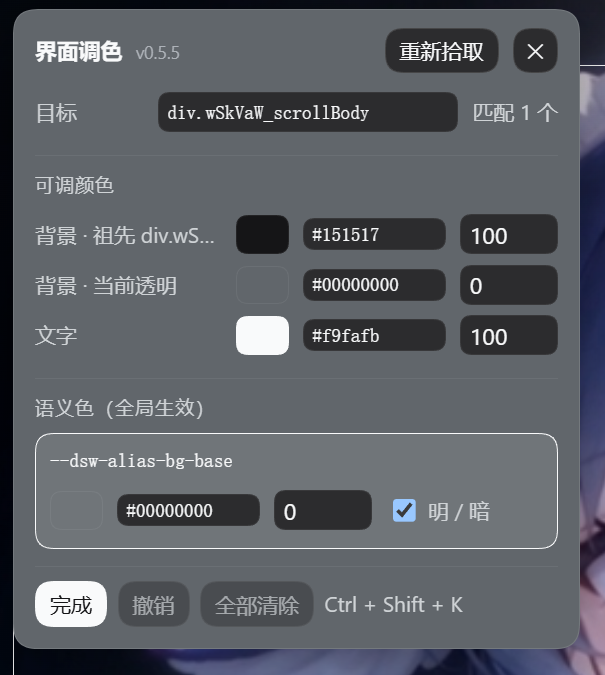
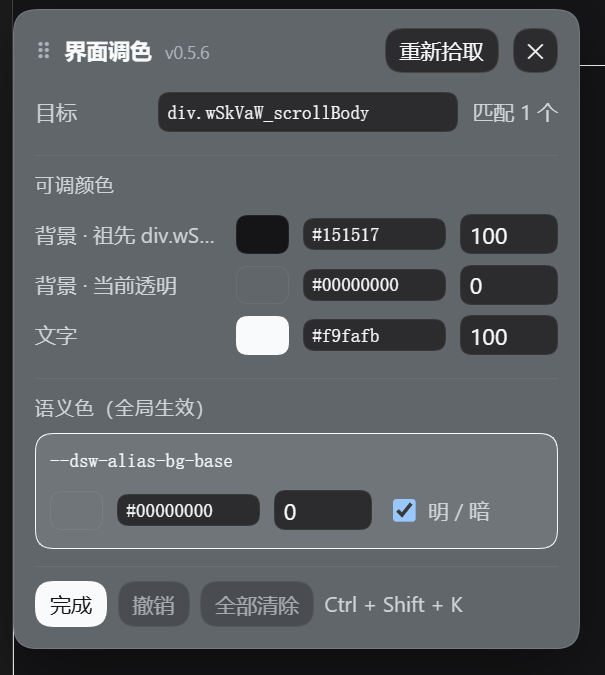
feat(pick): 标题栏可拖动移动面板；放宽目标时保留被选中的元素
用户两条：希望 UI 上有一块区域可以按住拖动面板；另外放宽「目标」选择器时会匹配到第一个元素
而不是被选中的那个。

1) 拖拽
- 标题栏（按钮 / 输入框除外）是拖拽区，左侧加 ⠿ 抓手与 cursor: grab/grabbing 提示。
- pointer 事件 + setPointerCapture：指针移出面板也不中断；pointermove 写 left/top 并夹在视口内。
- manualPos ref 一旦写入，placePanel 只夹边不再按元素位置摆放（内容变高仍会拉回视口内）；
  换目标（selected.selector 变化）时清空 manualPos 恢复自动摆放；拖动时清空 lastPlace 防止被旧键写回。

2) retarget 保留被选中的元素
- retargetSelector 先判断 store.selected.el.matches(text)：仍匹配就继续用它检查颜色/画高亮框，
  只有不再匹配才退到 list[0]。规则仍然写用户输入的选择器（作用于整批）。

实测（自建实例、真实 DOM 事件）：
- 标题栏拖 (+120,-90)：面板 [10,160] → [130,70]；拖完再打开调色盘位置保持、仍在视口内；
  拖到 (5000,5000) 被夹到 [669,430,993,893]（视口 1001x901）；标题栏按钮上按下不触发拖动。
- 选中第 3 个按钮 → 目标改 button（43 匹配）：高亮框仍在第 3 个 [10,114,37,37]（不是第一个 [10,18,36,36]）；
  规则 button { color: #ff0000 !important; }；改 .wSkVaW_root（不匹配）才退回第一个匹配项。
- 控制台仅宿主自身的 [connection] generation 提示，无本插件 error/warn。

Changed region(s): [[0.238, 0.0622, 1.0, 1.0], [0.0595, 0.0622, 0.357, 0.0933], [0.0, 0.9644, 0.0298, 1.0]]

diff --git a/client.js b/client.js
@@ -51,7 +51,7 @@ window.__ModuleLoader__.load({
     const PACKAGE_ID = 'dsh-colorize'
     const NS = 'colorize'
     /** Shown in the panel header so it is obvious which build the page is running. */
-    const VERSION = '0.5.5'
+    const VERSION = '0.5.6'
     const STORAGE_KEY = 'dsh-colorize:v1'
     const MARK = 'data-dsh-colorize'
     const Z_LAYER = 2147483000
@@ -118,6 +118,7 @@ window.__ModuleLoader__.load({
       noColors: '这个元素没有可调的颜色属性',
       noTarget: '没有选中元素',
       targetHint: '可直接编辑选择器；回车或离开输入框后重新匹配',
+      dragHint: '按住标题栏拖动面板',
       targetEmpty: '选择器不能为空',
       targetInvalid: '选择器语法无效',
       targetNoMatch: '没有元素匹配这个选择器',
@@ -193,6 +194,7 @@ window.__ModuleLoader__.load({
       noColors: 'This element has no color property to edit',
       noTarget: 'No element selected',
       targetHint: 'Edit the selector directly; press Enter or leave the field to re-match',
+      dragHint: 'Press and drag the title bar to move the panel',
       targetEmpty: 'The selector cannot be empty',
       targetInvalid: 'Invalid selector syntax',
       targetNoMatch: 'No element matches this selector',
@@ -1195,6 +1197,12 @@ window.__ModuleLoader__.load({
      * re-matches here. The typed selector is used verbatim for every rule, and the panel
      * shows how many elements it matches.
      *
+     * Widening the selector must **not** move the panel: if the element the user picked still
+     * matches the typed selector, that element stays the one being inspected (and outlined).
+     * Only when it no longer matches does the first match take over — otherwise typing
+     * `.sessionRow` to affect every row would silently jump the panel (and every row's colours)
+     * to whichever row happens to be first in the document.
+     *
      * @returns {{ok: true, matches: number} | {ok: false, reason: 'empty'|'invalid'|'nomatch'}}
      */
     function retargetSelector(raw) {
@@ -1207,7 +1215,16 @@ window.__ModuleLoader__.load({
         return { ok: false, reason: 'invalid' }
       }
       if (list.length === 0) return { ok: false, reason: 'nomatch' }
-      const el = list[0]
+      const previous = store.selected === null ? null : store.selected.el
+      let keepPrevious = false
+      if (previous !== null && previous.isConnected === true && typeof previous.matches === 'function') {
+        try {
+          keepPrevious = previous.matches(text)
+        } catch (error) {
+          keepPrevious = false
+        }
+      }
+      const el = keepPrevious ? previous : list[0]
       const info = inspectElement(el, text)
       store.selected = {
         el,
@@ -1345,6 +1362,11 @@ window.__ModuleLoader__.load({
       '  border: 1px solid var(--dsw-alias-border-l2, rgba(255,255,255,.18)); box-shadow: 0 14px 40px rgba(0,0,0,.38); }',
       '.dscz-panel * { box-sizing: border-box; }',
       '.dscz-head { display: flex; align-items: center; gap: 8px; margin-bottom: 8px; }',
+      /* 拖动区域：标题栏（按钮除外），按住可移动面板 */
+      '.dscz-head { cursor: grab; user-select: none; touch-action: none; }',
+      '.dscz-head:active { cursor: grabbing; }',
+      '.dscz-grip { flex: none; font-size: 13px; line-height: 1; letter-spacing: -1px;',
+      '  color: var(--dsw-alias-label-tertiary, #7f8287); }',
       '.dscz-title { font-weight: 600; font-size: 12.5px; flex: 1; }',
       /* 目标：可编辑并重新匹配的选择器 */
       '.dscz-target { flex: 1; min-width: 0; padding: 2px 5px; font: 11px/1.6 ui-monospace, SFMono-Regular, Menlo, monospace;',
@@ -1921,6 +1943,13 @@ window.__ModuleLoader__.load({
       }, [])
 
       const lastPlace = React.useRef('')
+      /**
+       * Set once the user drags the panel by its title bar. From then on the panel keeps that
+       * position (still clamped into the viewport) instead of snapping back next to the
+       * element — the auto placement keeps running, it just stops moving a dragged panel.
+       * Reset when the target changes, so picking a new element auto-places again.
+       */
+      const manualPos = React.useRef(null)
 
       /**
        * Put the panel next to its element **without ever letting it leave the viewport**.
@@ -1941,14 +1970,22 @@ window.__ModuleLoader__.load({
         const maxHeight = Math.max(160, Math.round(window.innerHeight - margin * 2))
         panel.style.maxHeight = Math.min(Math.round(window.innerHeight * 0.74), maxHeight) + 'px'
         panel.style.maxWidth = Math.max(160, Math.round(window.innerWidth - margin * 2)) + 'px'
-        const rect = selected.el.getBoundingClientRect()
         const width = panel.offsetWidth || 324
         const height = panel.offsetHeight || 260
-        let left = Math.min(rect.left, window.innerWidth - width - margin)
-        left = Math.max(margin, left)
-        let top = rect.bottom + 10
-        if (top + height > window.innerHeight - margin) top = rect.top - height - 10
-        top = Math.max(margin, Math.min(top, window.innerHeight - height - margin))
+        let left = 0
+        let top = 0
+        if (manualPos.current !== null) {
+          // 拖拽过就守住用户放的位置，只在越界时拉回视口内。
+          left = Math.max(margin, Math.min(manualPos.current.left, window.innerWidth - width - margin))
+          top = Math.max(margin, Math.min(manualPos.current.top, window.innerHeight - height - margin))
+        } else {
+          const rect = selected.el.getBoundingClientRect()
+          left = Math.min(rect.left, window.innerWidth - width - margin)
+          left = Math.max(margin, left)
+          top = rect.bottom + 10
+          if (top + height > window.innerHeight - margin) top = rect.top - height - 10
+          top = Math.max(margin, Math.min(top, window.innerHeight - height - margin))
+        }
         const key = [left, top, width, height, window.innerWidth, window.innerHeight].join(',')
         if (lastPlace.current !== key) {
           lastPlace.current = key
@@ -1999,6 +2036,70 @@ window.__ModuleLoader__.load({
           /* older engines: the panel scroll is still usable by hand */
         }
       }, [editing])
+
+      /**
+       * Drag the panel by its title bar.
+       *
+       * The panel is deliberately `position: fixed` with everything else moving through
+       * transforms, so a manual drag just writes left/top. Pointer events + capture keep the
+       * drag alive when the pointer leaves the panel; the position is clamped into the viewport
+       * on every move so the panel can never be parked off-screen, and `manualPos` tells the
+       * auto placement to stop snapping it back.
+       *
+       * Buttons inside the bar keep working: a pointerdown that starts on an interactive
+       * control is ignored here.
+       */
+      const dragState = React.useRef(null)
+      const onDragStart = React.useCallback((event) => {
+        if (event.pointerType === 'mouse' && event.button !== 0) return
+        const target = event.target
+        if (target !== null && typeof target.closest === 'function' &&
+          target.closest('button, input, select, textarea, a')) return
+        const panel = panelRef.current
+        if (panel === null) return
+        const rect = panel.getBoundingClientRect()
+        dragState.current = {
+          id: event.pointerId,
+          dx: event.clientX - rect.left,
+          dy: event.clientY - rect.top,
+        }
+        manualPos.current = { left: rect.left, top: rect.top }
+        try {
+          event.currentTarget.setPointerCapture(event.pointerId)
+        } catch (error) {
+          /* synthetic / stale pointer id: the move handler still works */
+        }
+        event.preventDefault()
+      }, [])
+      const onDragMove = React.useCallback((event) => {
+        const drag = dragState.current
+        if (drag === null || drag.id !== event.pointerId) return
+        const panel = panelRef.current
+        if (panel === null) return
+        const margin = 8
+        const width = panel.offsetWidth || 324
+        const height = panel.offsetHeight || 260
+        const left = Math.max(margin, Math.min(event.clientX - drag.dx, window.innerWidth - width - margin))
+        const top = Math.max(margin, Math.min(event.clientY - drag.dy, window.innerHeight - height - margin))
+        manualPos.current = { left, top }
+        lastPlace.current = ''
+        panel.style.left = left + 'px'
+        panel.style.top = top + 'px'
+      }, [])
+      const onDragEnd = React.useCallback((event) => {
+        if (dragState.current === null) return
+        dragState.current = null
+        try {
+          event.currentTarget.releasePointerCapture(event.pointerId)
+        } catch (error) {
+          /* capture already gone */
+        }
+      }, [])
+
+      /** A new target auto-places again (a dragged position is per-element). */
+      React.useEffect(() => {
+        manualPos.current = null
+      }, [state.selected === null ? null : state.selected.selector])
 
       /* --- pick mode: four listeners, added and removed with the mode --- */
 
@@ -2380,7 +2481,15 @@ window.__ModuleLoader__.load({
           { className: 'dscz-panel', ref: panelRef, [MARK]: 'panel', style: PANEL_STYLE },
           h(
             'div',
-            { className: 'dscz-head' },
+            {
+              className: 'dscz-head',
+              title: t('dragHint'),
+              onPointerDown: onDragStart,
+              onPointerMove: onDragMove,
+              onPointerUp: onDragEnd,
+              onPointerCancel: onDragEnd,
+            },
+            h('span', { className: 'dscz-grip', 'aria-hidden': 'true' }, '⠿'),
             h('span', { className: 'dscz-title' }, t('title'),
               h('span', { className: 'dscz-version' }, 'v' + VERSION)),
             h(Button, { small: true, onClick: () => setPicking(true) }, t('repick')),

diff --git a/CHANGELOG.md b/CHANGELOG.md
@@ -1,5 +1,41 @@
 # Changelog
 
+## 0.5.6 — 2026-10-17
+
+两条：**面板可以用标题栏拖动**；**放宽目标选择器时保留你点选的那个元素**（不再跳到第一个匹配项）。
+
+### 1. 拖拽：按住标题栏移动面板
+
+标题栏左边多了一个 `⠿` 抓手，整条标题栏（按钮除外）都是拖动区域：按住拖动即移动面板，
+`cursor: grab / grabbing` 提示可拖。
+
+* 用 pointer 事件 + `setPointerCapture`，指针移出面板也不会中断；移动被夹在视口内，拖不丢。
+* 拖过之后**位置固定**：自动摆放继续跑（内容变高时仍会重新夹边），但不会再把手动位置拉回元素旁边。
+* 换目标（重新拾取 / 改 目标 选择器）时重置为自动摆放。
+* 标题栏上的按钮不受影响：从按钮上按下不会触发拖动。
+
+### 2. 目标：保留「被选中的元素」
+
+以前在 `目标` 里把选择器**放宽**（例如从 `[data-row-key="session:…"]` 改成 `.sessionRow` 以影响全部行）时，
+`retargetSelector` 直接取 `querySelectorAll(…)[0]` —— 面板会跳到**文档里第一个匹配项**重新检查颜色、
+高亮框也跟着跳，看起来就像「匹配了当前[第一个]元素，而不是我选中的那个」。
+
+现在：**只要你点选的那个元素仍然匹配新选择器，就继续用它**（行、高亮框、取色都还是它）；
+只有它不再匹配时才退回第一个匹配项。而**规则仍然写你输入的选择器**，`匹配 N 个` 照旧。
+
+順带：`目标` 输入框里按 `Esc` 只还原这次输入（0.5.5 已修，沿用）。
+
+### 验证（自建实例，真实 DOM 事件，控制台无 error）
+
+| 操作 | 结果 |
+| --- | --- |
+| 标题栏拖 (+120, −90) | 面板 `[10,160] → [130,70]`，位移与手势一致 |
+| 拖完再打开调色盘（面板变高 + 重渲染） | 位置保持 `[130,70]`，高度增加，仍在视口内 |
+| 往视口外拖到 (5000,5000) | 被夹到 `[669,430,993,893]`（视口 1001×901），完全在内 |
+| 在标题栏按钮上按下并移动 | 面板不动（按钮照常工作） |
+| 选中第 3 个按钮 → 目标改 `button`（43 个匹配） | 高亮框仍是第 3 个按钮 `[10,114,37,37]`，不是第一个 `[10,18,36,36]`；规则仍写 `button { color: … }` |
+| 目标改 `.wSkVaW_root`（不再匹配选中元素） | 退回第一个匹配项，高亮框移到 root |
+
 ## 0.5.5 — 2026-10-17
 
 两条需求：**目标可以选择性地手动改并重新匹配**，以及**贴着屏幕边缘取色时浮层面板会卡出屏幕**。

diff --git a/AGENTS.md b/AGENTS.md
@@ -39,11 +39,14 @@
    打开取色器时 `scrollIntoView`。只在「选中元素 + scroll/resize」时算一次的话，贴边取色会顶出屏幕。
 8. **手动改的目标必须被尊重**：`目标` 是输入框，重匹配走 `inspectElement(el, selectorOverride)`，
    行的规则**写用户输入的选择器**，不许回退到 `buildSelector`。非法 / 零匹配只显示行内说明，不动当前选择。
-   窗口捕获的「Esc 关面板」必须跳过 `input / textarea / select`，否则在输入框里取消输入会把面板关掉。
-9. **`client.js` 的 `VERSION` 必须等于 `package.json` 的 version**：面板标题读它，这是「页面里装的哪个构建」
-   的唯一线索。`npm run check:manifest` 会拦。
-10. **两份 locale 的键必须一一对应**，`files` 必须覆盖所有会发布的东西。
-11. **别把 `web:linux` 的默认键位加回来**：DSH 只放行三种组合且都被官方命令占了，
+   **放宽选择器时只要 `store.selected.el` 仍 matches，就继续用它**（不许改成 `list[0]`）——
+   否则用户看到的是「面板跳到了第一个匹配元素」。窗口捕获的「Esc 关面板」必须跳过 `input / textarea / select`。
+9. **手动拖拽优先于自动摆放**：标题栏拖动写 `manualPos`，此后 `placePanel` 只夹边、不再按元素摆放；
+   拖动要 pointer capture + 视口夹边，标题栏上的按钮按下不触发拖动；换目标时清空 `manualPos` 恢复自动摆放。
+10. **`client.js` 的 `VERSION` 必须等于 `package.json` 的 version**：面板标题读它，这是「页面里装的哪个构建」
+    的唯一线索。`npm run check:manifest` 会拦。
+11. **两份 locale 的键必须一一对应**，`files` 必须覆盖所有会发布的东西。
+12. **别把 `web:linux` 的默认键位加回来**：DSH 只放行三种组合且都被官方命令占了，
     `register()` 会原子校验所有平台的默认键位 —— 一个不合法默认值会让整条命令注册失败。
     Windows/中文 IME 下 `Alt+Shift` 是输入法切换，也不要当默认键。
 

diff --git a/README.md b/README.md
@@ -51,8 +51,10 @@ dsh plugin --profile web add \
    每行都可以**直接改**：点色块开取色器，或直接在行内的 `HEX` 框（回车提交、`Esc` 取消、非法输入自动还原）
    和不透明度框（0–100，输入即时生效）里改 —— 不必进编辑器。
    面板里的 **目标** 是**可编辑的选择器**：改完按回车（或离开输入框）就按新选择器重新匹配 ——
-   取第一个匹配元素重新检查属性，规则也写在你输入的选择器上；`匹配 N 个` 会跟着变，语法错误 / 没有匹配
-   会标红说明原因且不动当前选择（`Esc` 只还原这次输入，不关面板）。
+   规则写在你输入的选择器上，`匹配 N 个` 会跟着变；语法错误 / 没有匹配会标红说明原因且不动当前选择
+   （`Esc` 只还原这次输入，不关面板）。
+   把选择器**放宽**（比如改成整类元素）时，只要你点选的那个元素仍在匹配集合里，面板就继续盯着它 ——
+   行、高亮框、取色都还是它，只是规则作用到整批；它不再匹配才退回第一个匹配项。
 3. **取色器有两个可选方式**（默认「混合器」）：
 
    * **调色盘**：系统取色器（色轮 + 屏幕吸管）+ 15 个预设色；
@@ -94,6 +96,7 @@ dsh plugin --profile web add \
 
 | 控件 | 作用 |
 | --- | --- |
+| 标题栏（`⠿`） | **按住拖动面板**（指针移出面板也不断，位置夹在视口内）；拖过之后位置固定，换目标才恢复自动摆放 |
 | 目标 | **可编辑的选择器**：回车 / 失焦后重新匹配（规则写在你输入的选择器上），右侧显示匹配数量；非法或零匹配会标红说明且不改当前选择 |
 | 重新拾取 | 回到拾色模式换一个元素 |
 | 语义色（全局生效） | 当元素颜色正好等于某个主题 token 时出现；改它等于换整个界面的这个语义色，比元素级规则稳得多。这一行同样有行内 `HEX` 与不透明度（含 alpha 也不会有歧义） |

diff --git a/README_EN.md b/README_EN.md
@@ -24,7 +24,8 @@ zero-size React mount.
 | **Recolor** | The panel lists the colours that are actually in effect: background / text / border (merged when all four sides match) / SVG fill & stroke |
 | **Two pickers** | **Palette** (OS picker + eyedropper + 15 presets) and **Mixer** (R/G/B/A sliders + HEX), sharing one 应用 / 取消 footer |
 | **Inline editing** | Every row edits `HEX` and opacity (0–100) in place, no editor needed. Opacity survives a hex edit, and a translucent colour shows as `#rrggbbaa` |
-| **Editable target** | The `目标` field is an editable selector: press Enter (or leave the field) to re-match. Rules are written against the selector you typed, the match count updates, and an invalid / empty / zero-match selector is reported inline without losing the current selection |
+| **Editable target** | The `目标` field is an editable selector: press Enter (or leave the field) to re-match. Rules are written against the selector you typed, the match count updates, and an invalid / empty / zero-match selector is reported inline without losing the current selection. Widening the selector keeps the element you picked as long as it still matches (the panel only jumps to the first match when it does not) |
+| **Draggable panel** | The title bar (`⠿`) is a drag handle: press and drag to move the panel (pointer capture keeps the drag alive outside the panel, the position is clamped into the viewport, and it stays where you put it until the target changes) |
 | **Stays on screen** | The panel re-places itself after every content change, clamps both axes inside the viewport (flipping above the element when needed), caps its own size to the viewport and scrolls internally — picking near an edge no longer leaves the palette buttons off-screen |
 | **Bulk** | Scope: this element / N same-class / element + descendants — existing rules move with the scope |
 | **Semantic colours** | When a colour equals a `--dsw-alias-*` token, editing it goes through `theme.overrideTokens`, so the whole UI follows |

diff --git a/docs/internals.md b/docs/internals.md
@@ -164,3 +164,22 @@ DSH 的设置弹窗是 `body` 下的 `div[role=dialog][aria-modal=true]`，`z-in
 * `Esc` 只还原这次输入（窗口捕获阶段的「关闭面板」监听会跳过 `input / textarea / select`，
   否则在输入框里按 Escape 会把整个面板关掉）；
 * 匹配到多个时规则作用于整批 —— 这是选择器的语义，面板用 `匹配 N 个` 明确显示。
+
+### 十之一、放宽选择器时要守住「你点选的那个元素」
+
+`retargetSelector` 在改动前直接取 `querySelectorAll(text)[0]`。把选择器放宽（例如从
+`[data-row-key="session:…"]` 改成整类行）时，面板会跳到**文档里第一个匹配项**检查颜色、高亮框也跳走，
+用户看到的就是「匹配了当前[第一个]元素，而不是我选中的那个」。
+
+正确行为：**只要 `store.selected.el` 仍然 `matches(text)`，就继续用它**（行、高亮框、取色都是它），
+规则仍写用户输入的选择器（作用于整批）；只有当它不再匹配时才退回第一个匹配项。
+这样「放宽选择器」= 扩大规则的作用范围，而不是换一个检查对象。
+
+## 十一、拖拽：手动位置优先于自动摆放
+
+标题栏是拖拽区（`⠿` 抓手，`cursor: grab`；鼠标按下点落在按钮/输入框上时忽略，按钮照常工作）。
+
+* pointer 事件 + `setPointerCapture`：指针移出面板也不断；`pointermove` 里写 `left/top` 并夹在视口内。
+* `manualPos` ref 一旦被拖动写入，`placePanel` 就**只夹边、不再按元素位置摆放**；内容变高时仍会被拉回视口内。
+* 换目标（`selected.selector` 变化）时清空 `manualPos`，恢复自动摆放 —— 手动位置是「针对当前这个元素」的。
+* `lastPlace` 去重键在拖动时清空，避免自动摆放把刚拖到的位置又按旧键写回去。

diff --git a/docs/releases/v0.5.6.md b/docs/releases/v0.5.6.md
@@ -1,0 +1,25 @@
+# v0.5.6 — 面板可拖动；目标放宽时保留你选中的元素
+
+## 1. 拖拽面板
+
+标题栏左边多了 `⠿` 抓手，整条标题栏（按钮除外）都能按住拖动：
+
+* pointer 事件 + `setPointerCapture`，指针移出面板也不中断；位置被夹在视口内，拖不丢。
+* 拖过之后位置固定 —— 自动摆放仍会在内容变高时夹边，但不会把手动位置拉回元素旁边。
+* 换目标（重新拾取 / 改 `目标`）后恢复自动摆放；标题栏上的按钮不受影响。
+
+实测：拖 (+120, −90) → 面板 `[10,160] → [130,70]`；再打开调色盘，位置保持且面板仍在视口内；
+往外拖到 (5000,5000) → 夹到 `[669,430,993,893]`（视口 1001×901）。
+
+## 2. 目标：不再跳到第一个匹配项
+
+在 `目标` 里放宽选择器（例如从 `[data-row-key="session:…"]` 改成 `.sessionRow` 以影响全部行）时，
+以前会直接取第一个匹配项重新检查 —— 面板和你的选择一起「跳走」，看着像匹配了当前元素而不是你选中的那个。
+
+现在**只要你点选的元素仍然匹配新选择器，就继续用它**（行、高亮框、取色都还是它）；只有它不匹配时才退回第一个。
+规则仍然写你输入的选择器。
+
+实测：选中第 3 个按钮 → 目标改 `button`（43 个匹配）→ 高亮框仍在第 3 个按钮 `[10,114,37,37]`，
+不是第一个 `[10,18,36,36]`；规则仍是 `button { color: … }`。
+
+安装同 README；已装过的刷新页面（F5）即可，面板标题应显示 `v0.5.6`。

diff --git a/docs/verification.md b/docs/verification.md
@@ -125,3 +125,15 @@ localStorage.getItem('dsh-colorize:v1')
 * 桌面壳（`dsh.client.platform: web` 之外的宿主）没跑过，manifest 里也只声明 web。
 * 触屏 / 手写笔没有专门验证；拾色只用了 pointer 事件。
 * 深色/浅色两套主题下的截图对比没有自动化，只人工看过。
+
+### 拖拽与「放宽选择器」（0.5.6 起，回归必测）
+
+| 操作 | 期望（0.5.6 实测值） |
+| --- | --- |
+| 按住标题栏拖 (+120, −90) | 面板位移与手势一致（实测 `[10,160] → [130,70]`） |
+| 拖完再打开调色盘（面板变高 + 重渲染） | 位置保持 `[130,70]`，高度增加，仍在视口内 |
+| 往视口外拖到 (5000, 5000) | 夹到 `[669,430,993,893]`（视口 1001×901），完全在内 |
+| 在标题栏按钮上按下并移动 | 面板不动，按钮照常工作 |
+| 换目标（重新拾取 / 改 目标） | 恢复自动摆放（手动位置被重置） |
+| 选中第 3 个按钮 → 目标改 `button`（43 个匹配） | 高亮框仍是第 3 个按钮 `[10,114,37,37]`，不是第一个 `[10,18,36,36]`；规则仍写 `button { color: … }` |
+| 目标改 `.wSkVaW_root`（不匹配选中元素） | 退回第一个匹配项，高亮框移到 root |
